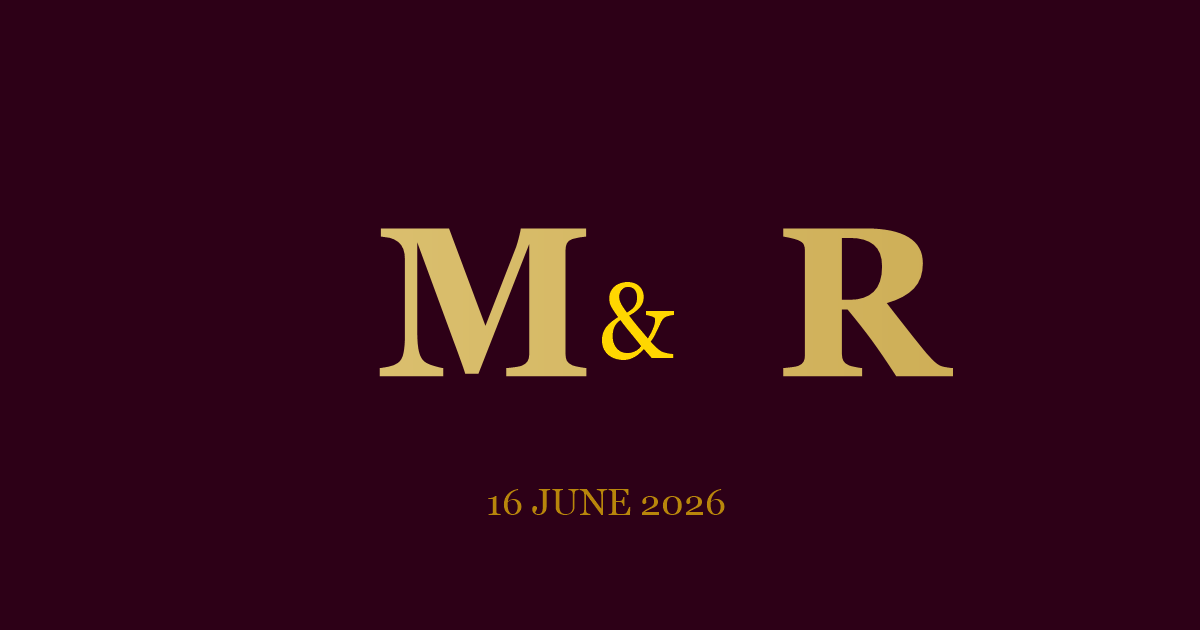
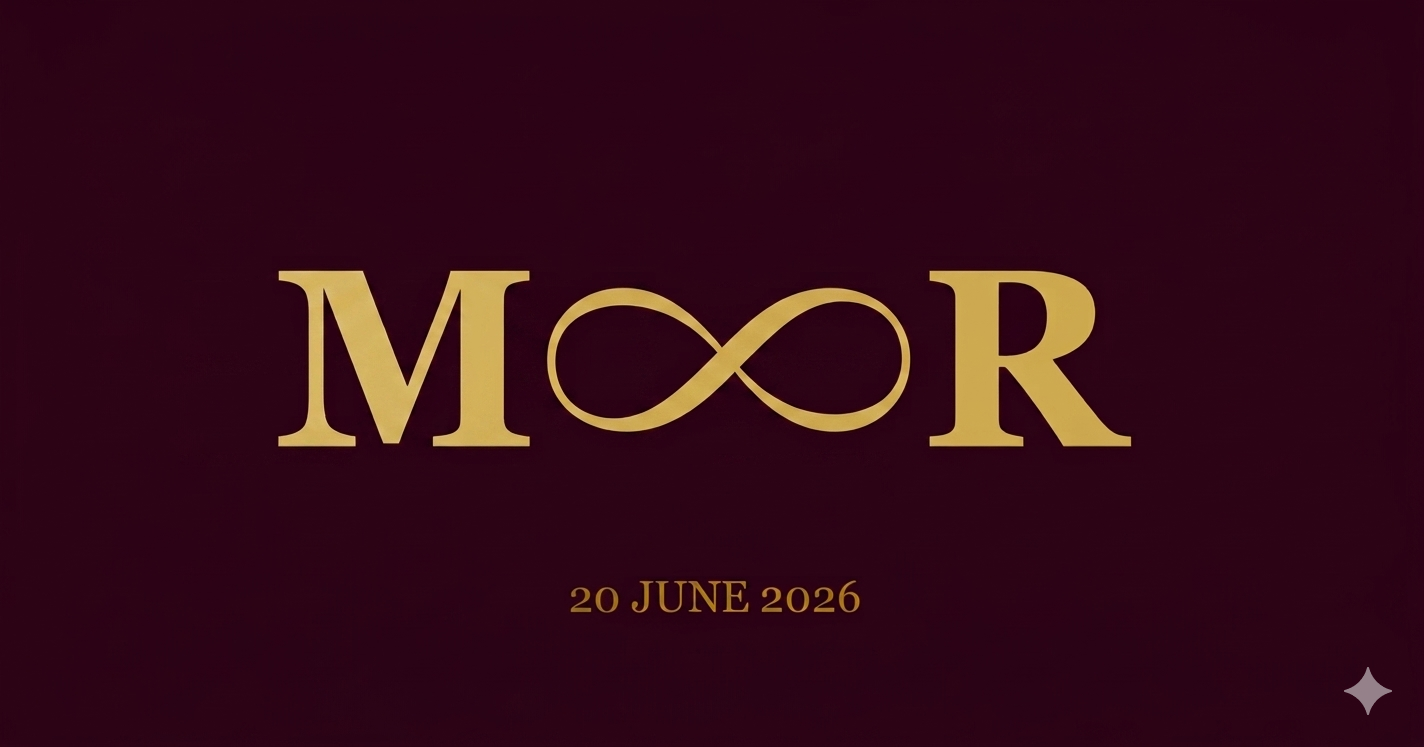
auto scroll and content

Changed region(s): [[0.185, 0.3619, 0.6475, 0.6032], [0.4008, 0.754, 0.6167, 0.8444], [0.925, 0.9048, 0.9867, 0.9651]]

diff --git a/src/App.js b/src/App.js
@@ -11,6 +11,27 @@ import Footer from "./components/Footer";
 import useFadeUp from "./hooks/useFadeUp";
 import "./App.css";
 
+function smoothScrollBy(deltaY, duration) {
+  const start = window.scrollY || document.documentElement.scrollTop || document.body.scrollTop || 0;
+  const startTime = performance.now();
+
+  function step(currentTime) {
+    const elapsed = currentTime - startTime;
+    const progress = Math.min(elapsed / duration, 1);
+    const eased = 1 - Math.pow(1 - progress, 3);
+    const y = start + deltaY * eased;
+
+    window.scrollTo({ top: y, behavior: "instant" });
+    document.documentElement.scrollTop = y;
+    document.body.scrollTop = y;
+
+    if (progress < 1) {
+      requestAnimationFrame(step);
+    }
+  }
+
+  requestAnimationFrame(step);
+}
 
 export default function App() {
 
@@ -18,11 +39,42 @@ export default function App() {
   const [muted, setMuted] = useState(false);
 
   const musicRef = useRef(null);
-useFadeUp();
-  /* ───────────────────────────── */
-  /* Initialize AOS */
-  /* ───────────────────────────── */
+  const userScrolled = useRef(false);
 
+  useFadeUp();
+
+  /* ── Auto-scroll teaser ── */
+  useEffect(() => {
+    if (phase !== "site") return;
+
+    userScrolled.current = false;
+
+    const cancel = () => { userScrolled.current = true; };
+    window.addEventListener("wheel", cancel, { passive: true });
+    window.addEventListener("touchstart", cancel, { passive: true });
+
+    let timer;
+
+    function cycle() {
+      if (userScrolled.current) return;
+      smoothScrollBy(300, 1200);
+      timer = setTimeout(() => {
+        if (userScrolled.current) return;
+        smoothScrollBy(-300, 1200);
+        timer = setTimeout(() => {
+          if (!userScrolled.current) cycle();
+        }, 4000);
+      }, 1600);
+    }
+
+    timer = setTimeout(cycle, 3000);
+
+    return () => {
+      window.removeEventListener("wheel", cancel);
+      window.removeEventListener("touchstart", cancel);
+      clearTimeout(timer);
+    };
+  }, [phase]);
 
   /* ───────────────────────────── */
   /* Start music after intro */

diff --git a/public/index.html b/public/index.html
@@ -3,11 +3,19 @@
   <head>
     <meta charset="utf-8" />
     <meta name="viewport" content="width=device-width, initial-scale=1" />
+
     <meta name="theme-color" content="#2D0017" />
-    <title>Mostafa & Raghad — 16 June 2026</title>
-    <meta name="description" content="Join us as we celebrate our wedding on 16 June 2026 at Villa Gold Garden, 8–11 PM." />
-    <meta property="og:title" content="Mostafa &amp; Raghad's Wedding" />
-    <meta property="og:description" content="Join us as we celebrate our wedding on 16 June 2026 at Villa Gold Garden, 8–11 PM." />
+    <title>Mostafa & Raghad — 20 June 2026</title>
+    <meta
+      name="description"
+      content="Join us as we celebrate our engagement on 20 June 2026 at Le Gardin, 8–11 PM."
+    />
+    <meta property="og:title" content="Mostafa &amp; Raghad's Engagement" />
+    <meta
+      property="og:description"
+      content="Join us as we celebrate our engagement on 20 June 2026 at Le Gardin, 8–11 PM."
+    />
+
     <meta property="og:image" content="/og-image.png" />
     <meta property="og:url" content="https://mostafa-raghad.vercel.app/" />
     <meta property="og:type" content="website" />
@@ -19,13 +27,23 @@
       href="https://fonts.googleapis.com/css2?family=Cormorant+Garamond:ital,wght@0,300;0,400;0,600;1,300;1,400&family=Great+Vibes&family=Cinzel:wght@400;500&family=Amiri:ital,wght@0,400;0,700;1,400&display=swap"
       rel="stylesheet"
     />
-    <link rel="preload" as="video" href="/hero-video-new.mp4" type="video/mp4" fetchpriority="high" />
-    <link rel="preload" as="video" href="/0506.mp4" type="video/mp4" fetchpriority="high" />
+    <link
+      rel="preload"
+      as="video"
+      href="/hero-video-new.mp4"
+      type="video/mp4"
+      fetchpriority="high"
+    />
+    <link
+      rel="preload"
+      as="video"
+      href="/0506.mp4"
+      type="video/mp4"
+      fetchpriority="high"
+    />
   </head>
 
   <body>
-  
     <div id="root"></div>
-  
   </body>
 </html>

diff --git a/src/components/HeroSection.css b/src/components/HeroSection.css
@@ -138,7 +138,7 @@
   text-align: center;
   display: flex;
   flex-wrap: wrap;
-  justify-content: 7d5657 center;
+  justify-content: center;
   align-items: baseline;
   gap: 12px;
 }
@@ -263,27 +263,44 @@
   flex-direction: column;
   align-items: center;
   gap: 8px;
-  color: var(--cream-dark);
-  opacity: 0.7;
-  animation: fadeIn 1s ease both, bounceDown 2s ease 2.5s infinite;
+  opacity: 0.85;
+  animation: fadeIn 1s ease both;
   margin-top: 8px;
 }
 
-.scroll-icon {
+.scroll-arrows {
   color: var(--gold-light);
+  animation: glowPulse 3s ease-in-out infinite;
+  filter: drop-shadow(0 0 6px rgba(201, 168, 76, 0.3));
 }
 
-.scroll-dot {
-  animation: bounceDown 2s ease infinite;
+.scroll-arrows path {
+  animation: chevronBounce 2s ease-in-out infinite;
   transform-origin: center;
+}
+
+.scroll-arrows path:nth-child(1) { animation-delay: 0s; }
+.scroll-arrows path:nth-child(2) { animation-delay: 0.3s; }
+.scroll-arrows path:nth-child(3) { animation-delay: 0.6s; }
+
+@keyframes chevronBounce {
+  0%, 100% { transform: translateY(0); opacity: 0.3; }
+  50%      { transform: translateY(4px); opacity: 1; }
+}
+
+@keyframes glowPulse {
+  0%, 100% { filter: drop-shadow(0 0 4px rgba(201, 168, 76, 0.2)); }
+  50%      { filter: drop-shadow(0 0 14px rgba(201, 168, 76, 0.7)); }
 }
 
 .scroll-label {
   font-family: var(--font-caps);
-  font-size: 9px;
+  font-size: 10px;
   letter-spacing: 0.25em;
   text-transform: uppercase;
-  color: var(--cream-dark);
+  color: var(--cream);
+  text-shadow: 0 1px 8px rgba(0,0,0,0.8);
+  opacity: 0.85;
 }
 
 /* iPhone SE / very small screens */

diff --git a/src/components/HeroSection.js b/src/components/HeroSection.js
@@ -122,24 +122,11 @@ loop
         </div>
 
         <div className="scroll-indicator" style={{ animationDelay: "2s" }}>
-          <div className="scroll-icon">
-            <svg width="20" height="30" viewBox="0 0 20 30" fill="none">
-              <rect
-                x="1"
-                y="1"
-                width="18"
-                height="28"
-                rx="9"
-                stroke="currentColor"
-                strokeWidth="1.5"
-              />
-              <circle
-                className="scroll-dot"
-                cx="10"
-                cy="8"
-                r="3"
-                fill="currentColor"
-              />
+          <div className="scroll-arrows">
+            <svg width="36" height="72" viewBox="0 0 24 48" fill="none">
+              <path d="M4 12l8 8 8-8" stroke="currentColor" strokeWidth="1.5" strokeLinecap="round" strokeLinejoin="round" />
+              <path d="M4 24l8 8 8-8" stroke="currentColor" strokeWidth="1.5" strokeLinecap="round" strokeLinejoin="round" />
+              <path d="M4 36l8 8 8-8" stroke="currentColor" strokeWidth="1.5" strokeLinecap="round" strokeLinejoin="round" />
             </svg>
           </div>
           <p className="scroll-label">Scroll Down</p>

diff --git a/src/constants.js b/src/constants.js
@@ -4,17 +4,17 @@ export const COUPLE = {
 };
 
 export const WEDDING = {
-  date: new Date("2026-06-16T20:00:00"),
-  dateDisplay: "16 JUN 2026",
-  dateFull: "Tuesday, 16 June 2026",
-  dateFooter: "16 · 06 · 2026",
+  date: new Date("2026-06-20T20:00:00+02:00"),
+  dateDisplay: "20 June 2026",
+  dateFull: "20 June 2026",
+  dateFooter: "20 · 06 · 2026",
   time: "From 8:00 PM until 11:00 PM",
 };
 
 export const VENUE = {
-  name: "Villa Gold Garden",
-  address: "Villa Gold Garden",
-  mapsUrl: "https://maps.app.goo.gl/vD3zVXnEwLNvZkem9?g_st=awb",
+  name: "Le Gardin",
+  address: "Le Gardin, Alexandria",
+  mapsUrl: "https://maps.google.com/?q=31.222778,29.984993",
 };
 
 export const BISMILLAH = "بِسْمِ اللهِ الرَّحْمٰنِ الرَّحِيْمِ";

diff --git a/src/components/Footer.js b/src/components/Footer.js
@@ -14,7 +14,7 @@ export default function Footer() {
         />
       </div>
 
-      <p className="footer-names fade-up" >{COUPLE.groom}&thinsp; &amp; &thinsp; {COUPLE.bride}</p>
+      <p className="footer-names fade-up" >{COUPLE.groom}&thinsp; &amp; &thinsp; <span className="footer-bride">{COUPLE.bride}</span></p>
 
       <p className="footer-date fade-up" >
         {WEDDING.dateFooter}

diff --git a/src/components/Footer.css b/src/components/Footer.css
@@ -80,3 +80,7 @@
   max-width: 42vw;
   object-fit: contain;
 }
+
+.footer-bride {
+  padding-right: 4px;
+}
